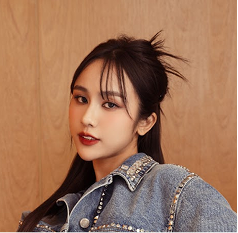
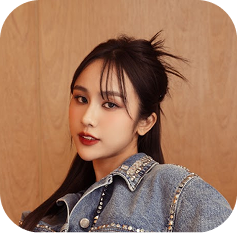
style:birthdaycake.css styling the look of the cake reviews by customers section at the birthday cake page

diff --git a/web/birthdaycake.html b/web/birthdaycake.html
@@ -351,7 +351,7 @@
             <div class="body-text">Don't trust our words? Listen to what our customers have to say about our birthday
                 cakes:
             </div>
-            <div class="body-text">Average Rating:
+            <div class="box-subtitle">Average Rating:
             </div>
             <div class="ratingicons"><img class="rating" src="images/highlight-rating.png">
                 <img class="rating" src="images/highlight-rating.png"><img class="rating"
@@ -361,32 +361,33 @@
         </div>
         <div class="allcustomercards">
             <div class="customercards">
-                <img class="customerimages" src="images/customer1.png">
                 <div class="reviews">
+                    <img class="customerimages" src="images/customer1.png">
                     <div class="body-text">Tasty and scrumptious! Perfect for a birthday party and Instagram photos! I
                         really recommend this bakery!
                     </div>
-                    <div class="body-text">Jestinna Kuan, Influencer</div>
+                    <div class="customername box-subtitle">Jestinna Kuan, Influencer</div>
                 </div>
             </div>
             <div class="customercards">
-                <img class="customerimages" src="images/customer2.png">
                 <div class="reviews">
+
+                    <img class="customerimages" src="images/customer2.png">
                     <div class="body-text">Incredibly detailed and gorgeous! Everything is so well-made, which makes me
                         love
                         it so much that I don't want to eat it!
                     </div>
-                    <div class="body-text">Jane Chuck, Influencer</div>
+                    <div class="customername box-subtitle">Jane Chuck, Influencer</div>
                 </div>
             </div>
             <div class="customercards">
-                <img class="customerimages" src="images/customer3.png">
                 <div class="reviews">
+                    <img class="customerimages" src="images/customer3.png">
                     <div class="body-text">Incredibly detailed and gorgeous! Everything is so well-made, which makes me
                         love
                         it so much that I don't want to eat it!
                     </div>
-                    <div class="body-text">Jason Chen,
+                    <div class="customername box-subtitle">Jason Chen,
                         Food Critic</div>
                 </div>
             </div>

diff --git a/web/css/birthdaycake.css b/web/css/birthdaycake.css
@@ -187,20 +187,76 @@
 .cakereviews {
     display: flex;
     flex-direction: row;
+    min-height: 650px;
+    padding: 30px;
+    gap: 30px;
+    justify-content: space-evenly;
+    width: 100%;
 }
 
 .allcustomercards {
     display: flex;
     flex-direction: row;
+    gap: 30px;
+    justify-content: space-evenly;
+    width: 100%;
 }
 
 .cakereviewsintroduction {
+    display: flex;
+    flex-direction: column;
+    row-gap: 30px;
+    padding: 5%;
     background-color: var(--bg-purple);
+    width: 50%
 }
 
 .customercards {
+    display: flex;
+    flex-direction: column;
     background-color: var(--bg-purple);
+    align-items: center;
+    justify-items: center;
+    padding: 5%;
+    text-align: center;
+    width: 100%;
 }
+
+.customerimages {
+    width: 100%;
+}
+
+.ratingicons {
+    display: flex;
+    flex-direction: row;
+    width: 20%;
+}
+
+.rating,
+.ratinggrey {
+    max-width: 70px;
+    width: 100%;
+    height: 100%;
+}
+
+.reviews {
+    display: flex;
+    flex-direction: column;
+    justify-content: space-evenly;
+    width: 100%;
+    height: 100%;
+    align-items: center;
+
+    .box-subtitle {
+        display: flex;
+        font-weight: 700;
+        justify-content: center;
+    }
+
+    justify-content: space-between;
+    row-gap: 30px;
+}
+
 
 @media screen and (max-width: 900px) {
 
@@ -264,6 +320,33 @@
         display: flex;
         flex-direction: column;
     }
+
+    .cakereviewsintroduction {
+        width: 100%;
+    }
+}
+
+@media screen and (max-width: 600px) {
+    .allcustomercards {
+        flex-direction: column;
+    }
+
+    .customercards {
+        display: flex;
+        flex-direction: column;
+        background-color: var(--bg-purple);
+        align-items: center;
+        justify-items: center;
+        padding: 10%;
+        text-align: center;
+        width: 100%;
+    }
+
+    .customerimages {
+        width: 80%;
+    }
+
+    .reviews {}
 }
 
 @media screen and (max-width: 500px) {
@@ -304,9 +387,4 @@
     .topnotchingredientsdescriptions {
         width: 100%;
     }
-
-    .allcustomercards {
-        flex-direction: column;
-    }
-
 }
